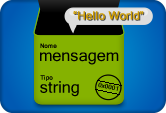
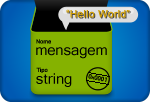
beta dos sprites da variável

diff --git a/ProjetoFinal/MenuViewController.m b/ProjetoFinal/MenuViewController.m
@@ -12,8 +12,8 @@
 
 @end
 
-static int BOTAO_WIDTH = 166;
-static int BOTAO_HEIGHT = 113;
+static int BOTAO_WIDTH = 150;
+static int BOTAO_HEIGHT = 102;
 static int ESPACAMENTO_BOTOES = 50;
 
 @implementation MenuViewController
@@ -52,6 +52,7 @@ static int ESPACAMENTO_BOTOES = 50;
     
     int posicaoYView = 1;
     
+    //LAÇO QUE RODA COM BASE NO VETOR QUE CONTÉM O NÚMERO DE BOTÕES QUE TERÁ EM CADA "LINHA"
     for(int i=0; i<nBotoesNasLinhas.count; i++){
         //INICIALIZA VIEW DE FUNDO
         UIView *view = [[UIView alloc] initWithFrame:CGRectMake(scroll.frame.origin.x, posicaoYView, scroll.frame.size.width, 200)];
